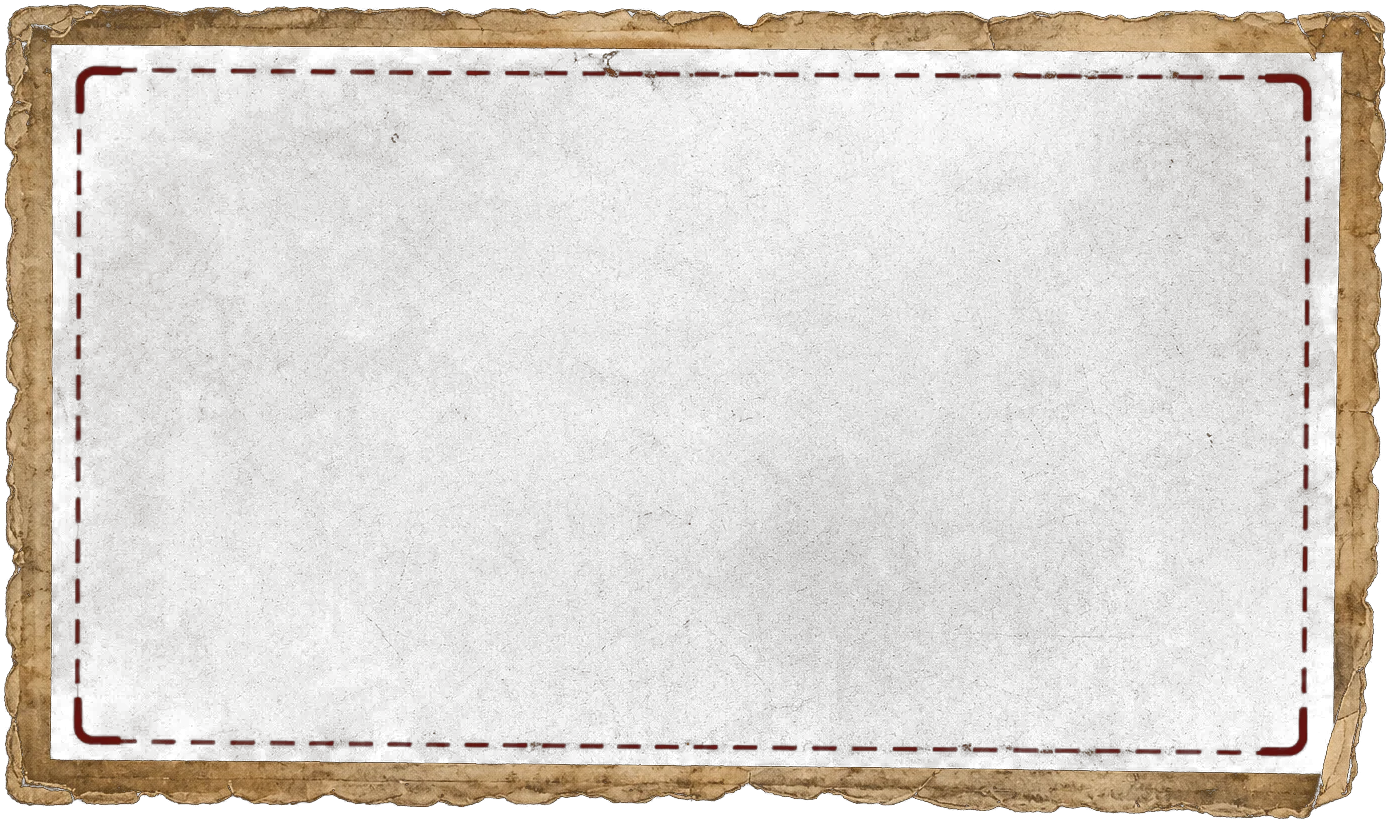
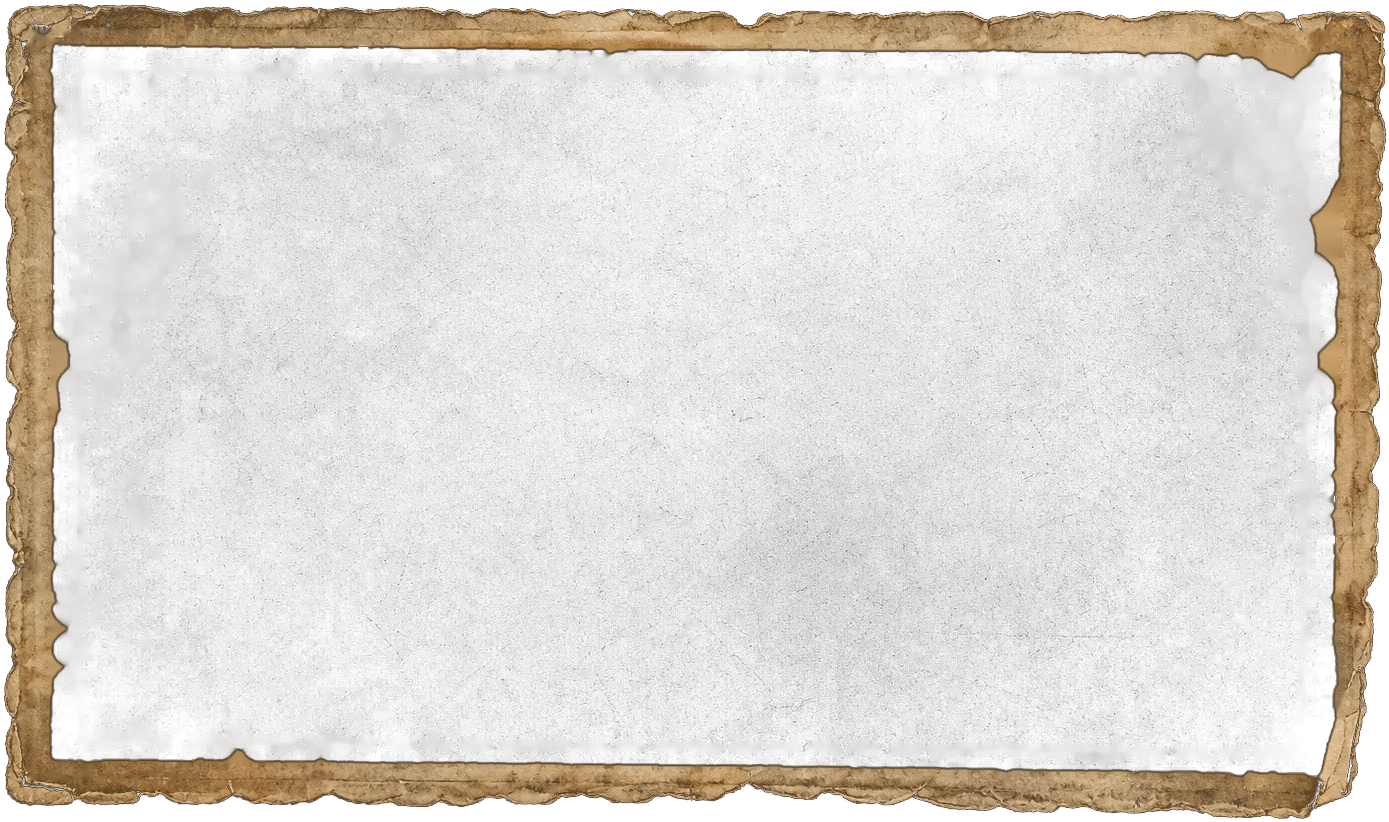
Day Detail: real photo frame, uniform spacing, compact TIME/EVIDENCE
- photo_frame.png: the red dashed placeholder line inside the frame's
  transparent interior was still visible on top of the photo (it's a small
  amount of color on an otherwise near-black area, so the original luma-key
  pass gave it just enough alpha to show through). Inpainted it out of the
  source crop before re-keying, so the interior is cleanly transparent and
  only the tan torn-paper border shows.
- photoFrameWrap / priorityBadgeWrap: each keeps its OWN native aspect ratio
  again (photo frame's real 1389x822 crop, priority's real 1269x1043 crop)
  instead of forcing them to match — that forced stretch was squashing the
  photo frame's border out of shape. They aren't the same shape in the
  reference either.
- TIME/EVIDENCE bars: forced to the same size (aspectRatio 5.2, shared) and
  shrunk down — they were oversized relative to their one line of text.
- One shared SECTION_GAP constant (10) now drives every section's spacing
  (quote → date → summary → photo/priority → TIME → EVIDENCE → REPORT →
  actions) instead of a mix of spacing.sm/md/lg — "wszystkie ramki powinny
  być dokładnie w tej samej odległości".

Claude-Session: https://claude.ai/code/session_01QAUTT5bx7RVREkjqsygM9N

diff --git a/app/day/[date].tsx b/app/day/[date].tsx
@@ -41,6 +41,12 @@ type SummaryItem = {
 const CALL_IDS = new Set(['phone', 'video_call']);
 const MESSAGE_IDS = new Set(['message', 'first_message', 'reconnect']);
 
+// One consistent vertical gap between every section on this screen (quote,
+// date badge, summary row, photo/priority, TIME, EVIDENCE, REPORT, actions)
+// — product owner spec: "wszystkie ramki powinny być dokładnie w tej samej
+// odległości" (every frame at exactly the same distance from the next).
+const SECTION_GAP = 10;
+
 export default function DayDetailScreen() {
   const { date } = useLocalSearchParams<{ date: string }>();
   const { getActivityByDate, deleteActivity, toggleFavorite } = useRelationship();
@@ -339,7 +345,7 @@ const styles = StyleSheet.create({
   },
   quoteBox: {
     alignSelf: 'center',
-    marginTop: spacing.lg,
+    marginTop: SECTION_GAP,
     borderWidth: 1,
     borderColor: colors.border,
     borderRadius: radius.md,
@@ -367,7 +373,7 @@ const styles = StyleSheet.create({
     alignSelf: 'center',
     width: '70%',
     aspectRatio: 1661 / 707,
-    marginTop: spacing.lg,
+    marginTop: SECTION_GAP,
     position: 'relative',
   },
   dateBadgeImg: {
@@ -434,7 +440,7 @@ const styles = StyleSheet.create({
   summaryRow: {
     flexDirection: 'row',
     gap: 5,
-    marginTop: spacing.lg,
+    marginTop: SECTION_GAP,
   },
   summaryCard: {
     flex: 1,
@@ -469,24 +475,25 @@ const styles = StyleSheet.create({
   },
   photoPriorityRow: {
     flexDirection: 'row',
+    alignItems: 'flex-start',
     gap: spacing.sm,
-    marginTop: spacing.lg,
+    marginTop: SECTION_GAP,
   },
-  // Photo and priority sit side by side at the same aspect ratio (the
-  // priority card's real 1269x1043 shape) so the pair lines up evenly even
-  // though the photo frame asset's own native crop is wider — it's a plain
-  // torn-corner border, not pixel-exact art that has to keep its ratio.
+  // Photo and priority each keep their own real asset's native aspect ratio
+  // (they aren't the same shape — the photo frame is a wide vintage-print
+  // border, the priority card is a taller lined-paper note — forcing them
+  // to match distorted the photo frame's border into something unrecognizable).
   photoFrameWrap: {
     width: '48%',
-    aspectRatio: 1269 / 1043,
+    aspectRatio: 1389 / 822,
     position: 'relative',
   },
   photoInner: {
     position: 'absolute',
-    left: '5%',
-    top: '8.5%',
-    width: '90.7%',
-    height: '82.7%',
+    left: '4%',
+    top: '5%',
+    width: '92%',
+    height: '87%',
     borderRadius: 2,
   },
   photoFrameArt: {
@@ -516,11 +523,16 @@ const styles = StyleSheet.create({
     fontSize: 14,
   },
   // TIME / EVIDENCE — real asset bars (icon + label baked into the pixels),
-  // only the value is code, dropped into the dashed placeholder's exact spot.
+  // only the value is code, dropped into the dashed placeholder's exact
+  // spot. Both bars are forced to the SAME size (product owner spec: "takiej
+  // samej wielkości") and a slimmer aspect ratio than either asset's native
+  // crop, so the bar height matches its one line of text instead of leaving
+  // a lot of empty vertical padding — they're plain bordered bars, not
+  // pixel-exact art, so stretching them a bit doesn't cost anything.
   timeBarWrap: {
-    marginTop: spacing.md,
+    marginTop: SECTION_GAP,
     width: '100%',
-    aspectRatio: 239 / 68,
+    aspectRatio: 5.2,
     position: 'relative',
   },
   timeBarImg: {
@@ -537,9 +549,9 @@ const styles = StyleSheet.create({
     justifyContent: 'center',
   },
   evidenceBarWrap: {
-    marginTop: 3,
+    marginTop: SECTION_GAP,
     width: '100%',
-    aspectRatio: 268 / 70,
+    aspectRatio: 5.2,
     position: 'relative',
   },
   evidenceBarImg: {
@@ -564,7 +576,7 @@ const styles = StyleSheet.create({
   // outline favorite star are all baked into report_card.png); only the
   // note text and the star's filled state are code.
   reportCardWrap: {
-    marginTop: spacing.lg,
+    marginTop: SECTION_GAP,
     width: '100%',
     aspectRatio: 532 / 212,
     position: 'relative',
@@ -620,7 +632,7 @@ const styles = StyleSheet.create({
   // ACTIONS — single real asset for all three buttons; EDIT/DELETE/SHARE are
   // invisible equal-thirds Pressables laid on top of it.
   actionsRowWrap: {
-    marginTop: spacing.lg,
+    marginTop: SECTION_GAP,
     width: '100%',
     aspectRatio: 502 / 60,
     position: 'relative',
